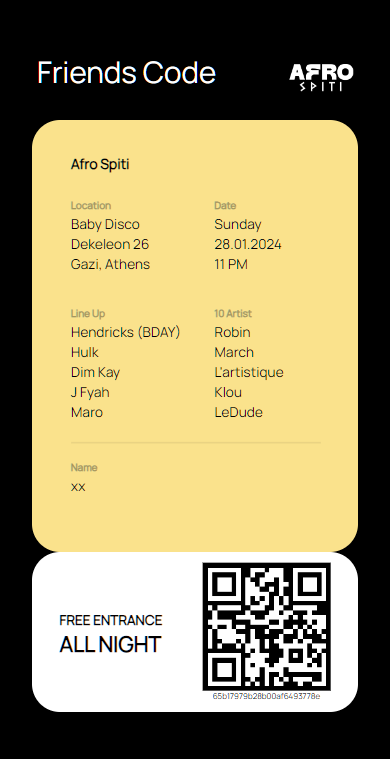
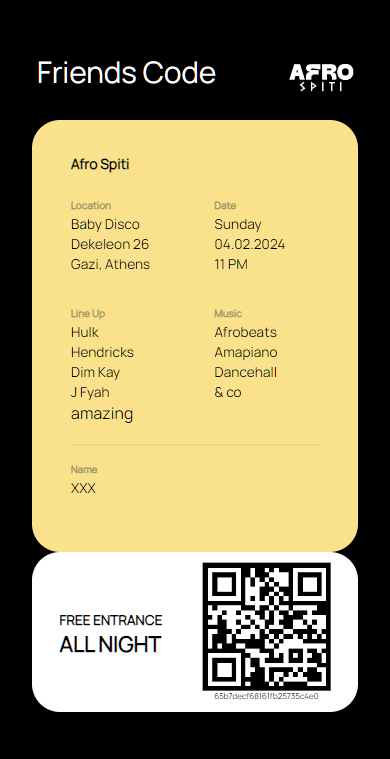
update 04022024

diff --git a/client/src/Components/EventPage/EventPage.js b/client/src/Components/EventPage/EventPage.js
@@ -311,7 +311,7 @@ const EventPage = ({ passedEventId }) => {
               </div>
 
               <img
-                src="./image/hendricks_header.png"
+                src="https://guest-code.s3.eu-north-1.amazonaws.com/server/HEADER040224.png"
                 alt=""
                 className="event-page-header-image"
               />
@@ -326,65 +326,12 @@ const EventPage = ({ passedEventId }) => {
                     {" "}
                     <div className="djs">
                       <p className="djs-title">DJs</p>
-
+                      {/* 
                       <div className="djs-single djs-single-guest">
-                        <img
-                          src="./image/hendricks.jpg"
-                          alt=""
-                          className="djs-single-image"
-                        />
+                        <img alt="" className="djs-single-image" />
                         <p className="djs-single-name">Hendricks</p>
                         <p className="origin">BERLIN</p>
-                      </div>
-
-                      <div className="djs-single">
-                        <img
-                          src="./image/robin.png"
-                          alt=""
-                          className="djs-single-image"
-                        />
-                        <p className="djs-single-name">Robin</p>
-                      </div>
-                      <div className="djs-single">
-                        <img
-                          src="./image/march.png"
-                          alt=""
-                          className="djs-single-image"
-                        />
-                        <p className="djs-single-name">March</p>
-                      </div>
-                      <div className="djs-single">
-                        <img
-                          src="./image/lartistique.png"
-                          alt=""
-                          className="djs-single-image"
-                        />
-                        <p className="djs-single-name">L'artistique</p>
-                      </div>
-                      <div className="djs-single">
-                        <img
-                          src="./image/ledude.png"
-                          alt=""
-                          className="djs-single-image"
-                        />
-                        <p className="djs-single-name">Ledude</p>
-                      </div>
-                      <div className="djs-single">
-                        <img
-                          src="./image/maro.png"
-                          alt=""
-                          className="djs-single-image"
-                        />
-                        <p className="djs-single-name">Maro</p>
-                      </div>
-                      <div className="djs-single">
-                        <img
-                          src="./image/klou.png"
-                          alt=""
-                          className="djs-single-image"
-                        />
-                        <p className="djs-single-name">Klou</p>
-                      </div>
+                      </div> */}
 
                       <div className="djs-single">
                         <img
@@ -397,11 +344,20 @@ const EventPage = ({ passedEventId }) => {
 
                       <div className="djs-single">
                         <img
+                          src="./image/hendricks.jpg"
+                          alt=""
+                          className="djs-single-image"
+                        />
+                        <p className="djs-single-name">Hendricks</p>
+                      </div>
+
+                      <div className="djs-single">
+                        <img
                           src="./image/dimkay.jpg"
                           alt=""
                           className="djs-single-image"
                         />
-                        <p className="djs-single-name">DIM KAY</p>
+                        <p className="djs-single-name">Dim KayY</p>
                       </div>
                     </div>
                     <div className="mc">
@@ -512,7 +468,7 @@ const EventPage = ({ passedEventId }) => {
                 Athens home of Afrobeats.
               </h3>
               <p className="event-page-banner-info">
-                Sunday · 28.01.2024 · 10 PM
+                Sunday · 04.02.2024 · 10 PM
               </p>
 
               <div

diff --git a/server/controllers/backstageController.js b/server/controllers/backstageController.js
@@ -65,7 +65,7 @@ const addBackstageCode = async (req, res) => {
                 <div>
                   <p style="margin: 0; color: #A6965D; font-weight: 600; font-size: 0.625rem; line-height: 1rem;">Date</p>
                   <p style="margin: 0; font-weight: 500; font-size: 0.857rem; color: #fff; line-height: 1.25rem;">Sunday</p>
-                                <p style="margin: 0; font-weight: 500; font-size: 0.857rem; color: #fff; line-height: 1.25rem;">28.01.2024</p>
+                                <p style="margin: 0; font-weight: 500; font-size: 0.857rem; color: #fff; line-height: 1.25rem;">04.02.2024</p>
                          <p style="margin: 0; font-weight: 500; font-size: 0.857rem; color: #fff; line-height: 1.25rem;">11 PM</p>
                 </div>
             </div>
@@ -76,9 +76,8 @@ const addBackstageCode = async (req, res) => {
               <div> 
                 <div style="margin-top: 0.5rem;">
                     <p style="margin: 0; color: #A6965D; font-weight: 600; font-size: 0.625rem; line-height: 1rem;">Line Up</p>
-                    <p style="margin: 0; font-weight: 500; font-size: 0.857rem; color: #fff; line-height: 1.25rem;">Hendricks (BDAY)</p>
                     <p style="margin: 0; font-weight: 500; font-size: 0.857rem; color: #fff; line-height: 1.25rem;">Hulk</p>
-                    <p style="margin: 0; font-weight: 500; font-size: 0.857rem; color: #fff; line-height: 1.25rem;">Maro</p>
+                    <p style="margin: 0; font-weight: 500; font-size: 0.857rem; color: #fff; line-height: 1.25rem;">Hendricks</p>
                     <p style="margin: 0; font-weight: 500; font-size: 0.857rem; color: #fff; line-height: 1.25rem;">Dim Kay</p>
                     <p style="margin: 0; font-weight: 500; font-size: 0.857rem; color: #fff; line-height: 1.25rem;">J Fyah</p>
                 </div>
@@ -87,12 +86,12 @@ const addBackstageCode = async (req, res) => {
 
 
                 <div style="margin-top: 0.5rem; ">
-                    <p style="margin: 0; color: #A6965D; font-weight: 600; font-size: 0.625rem; line-height: 1rem;">10 Artist</p>
-                    <p style="margin: 0; font-weight: 500; font-size: 0.857rem; color: #fff; line-height: 1.25rem;">Robin</p>                    
-                    <p style="margin: 0; font-weight: 500; font-size: 0.857rem; color: #fff; line-height: 1.25rem;">March</p>
-                    <p style="margin: 0; font-weight: 500; font-size: 0.857rem; color: #fff; line-height: 1.25rem;">L'artistique</p>
-                    <p style="margin: 0; font-weight: 500; font-size: 0.857rem; color: #fff; line-height: 1.25rem;">LeDude</p>
-                    <p style="margin: 0; font-weight: 500; font-size: 0.857rem; color: #fff; line-height: 1.25rem;">Klou</p>
+                    <p style="margin: 0; color: #A6965D; font-weight: 600; font-size: 0.625rem; line-height: 1rem;">Music</p>
+                    <p style="margin: 0; font-weight: 500; font-size: 0.857rem; color: #fff; line-height: 1.25rem;">Afrobeats</p>                    
+                    <p style="margin: 0; font-weight: 500; font-size: 0.857rem; color: #fff; line-height: 1.25rem;">Amapiano</p>
+                    <p style="margin: 0; font-weight: 500; font-size: 0.857rem; color: #fff; line-height: 1.25rem;">Dancehall</p>
+                    <p style="margin: 0; font-weight: 500; font-size: 0.857rem; color: #fff; line-height: 1.25rem;">& co</p>
+  
                 </div>
          
 

diff --git a/server/controllers/friendsController.js b/server/controllers/friendsController.js
@@ -65,7 +65,7 @@ const addFriendsCode = async (req, res) => {
                 <div>
                   <p style="margin: 0; color: #A6965D; font-weight: 600; font-size: 0.625rem; line-height: 1rem;">Date</p>
                   <p style="margin: 0; font-weight: 500; font-size: 0.857rem; line-height: 1.25rem;">Sunday</p>
-                             <p style="margin: 0; font-weight: 500; font-size: 0.857rem; line-height: 1.25rem;">28.01.2024</p>
+                             <p style="margin: 0; font-weight: 500; font-size: 0.857rem; line-height: 1.25rem;">04.02.2024</p>
                          <p style="margin: 0; font-weight: 500; font-size: 0.857rem; line-height: 1.25rem;">11 PM</p>
                 </div>
             </div>
@@ -76,11 +76,10 @@ const addFriendsCode = async (req, res) => {
               <div> 
                 <div style="margin-top: 0.5rem;">
                     <p style="margin: 0; color: #A6965D; font-weight: 600; font-size: 0.625rem; line-height: 1rem;">Line Up</p>
-                    <p style="margin: 0; font-weight: 500; font-size: 0.857rem; line-height: 1.25rem;">Hendricks (BDAY)</p>
                     <p style="margin: 0; font-weight: 500; font-size: 0.857rem; line-height: 1.25rem;">Hulk</p>                    
+                    <p style="margin: 0; font-weight: 500; font-size: 0.857rem; line-height: 1.25rem;">Hendricks</p>
                     <p style="margin: 0; font-weight: 500; font-size: 0.857rem; line-height: 1.25rem;">Dim Kay</p>
                     <p style="margin: 0; font-weight: 500; font-size: 0.857rem; line-height: 1.25rem;">J Fyah</p>
-                              <p style="margin: 0; font-weight: 500; font-size: 0.857rem; line-height: 1.25rem;">Maro</p>
                 </div>
 
               </div>
@@ -88,12 +87,11 @@ const addFriendsCode = async (req, res) => {
 
 
                      <div style="margin-top: 0.5rem; ">
-                    <p style="margin: 0; color: #A6965D; font-weight: 600; font-size: 0.625rem; line-height: 1rem;">10 Artist</p>
-                    <p style="margin: 0; font-weight: 500; font-size: 0.857rem; line-height: 1.25rem;">Robin</p>                    
-                    <p style="margin: 0; font-weight: 500; font-size: 0.857rem; line-height: 1.25rem;">March</p>
-                    <p style="margin: 0; font-weight: 500; font-size: 0.857rem; line-height: 1.25rem;">L'artistique</p>
-                    <p style="margin: 0; font-weight: 500; font-size: 0.857rem; line-height: 1.25rem;">Klou</p>
-                                        <p style="margin: 0; font-weight: 500; font-size: 0.857rem; line-height: 1.25rem;">LeDude</p>
+                    <p style="margin: 0; color: #A6965D; font-weight: 600; font-size: 0.625rem; line-height: 1rem;">Music</p>
+                    <p style="margin: 0; font-weight: 500; font-size: 0.857rem; line-height: 1.25rem;">Afrobeats</p>                    
+                    <p style="margin: 0; font-weight: 500; font-size: 0.857rem; line-height: 1.25rem;">Amapiano</p>
+                    <p style="margin: 0; font-weight: 500; font-size: 0.857rem; line-height: 1.25rem;">Dancehall</p>
+                    <p style="margin: 0; font-weight: 500; font-size: 0.857rem; line-height: 1.25rem;">& co</p>
                 </div>
 
            </div>

diff --git a/server/utils/pdf.js b/server/utils/pdf.js
@@ -248,7 +248,7 @@ const createTicketPDF = async (
 
         <div class="event-date">
           <h3>Date</h3>
-          <p>Sunday, 28.01.2024</p>
+          <p>Sunday, 04.02.2024</p>
         </div>
 
         <div class="event-beats">
@@ -258,14 +258,8 @@ const createTicketPDF = async (
 
         <div class="event-bites">
           <h3>Line Up</h3>
-          <p>Hendricks (BDAY)</p>
-          <p>Hulk</p>
-          <p>Robin</p>
-          <p>March</p>
-          <p>L'artistique</p>
-          <p>LeDude</p>
-          <p>Maro</p>
-          <p>Klou</p>
+          <p>Hulk</p
+          <p>Hendricks</p>>
           <p>Dim Kay</p>
           <p>J Fyah</p>
         </div>
